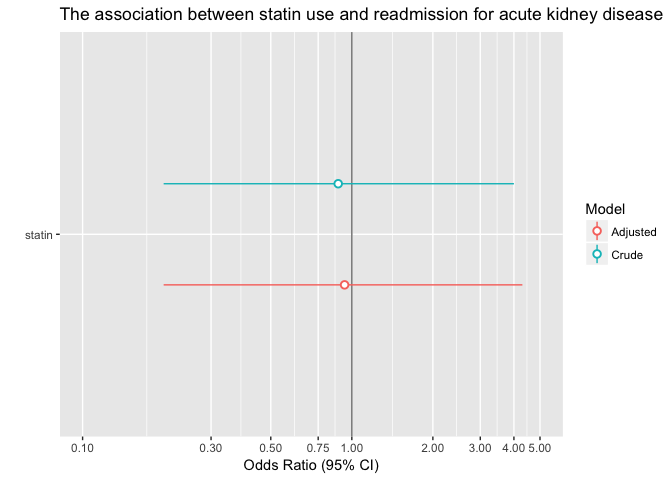
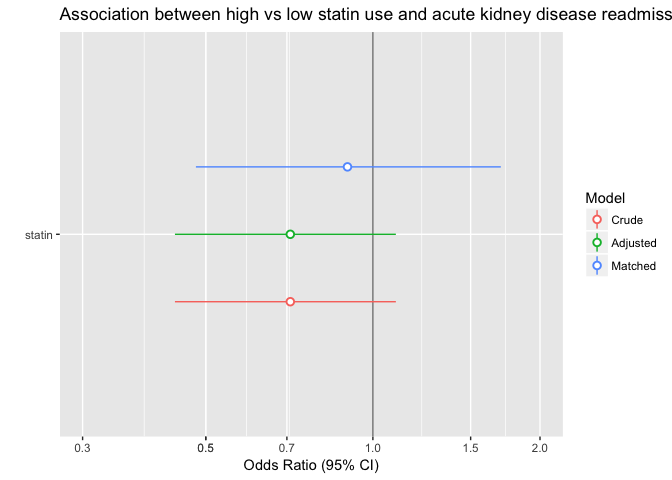
changed inclusion period 6m

diff --git a/SynPUF-propensity-model.md b/SynPUF-propensity-model.md
@@ -3,31 +3,27 @@ SynPUF-propensity-model
 Erika Braithwaite
 2018-05-23
 
-Only 839 met the study's criteria:
+A total of 23
 
 First select individuals above 40 at the time they first showed up in the dataset; then exclude anyone died within one year; then select individuals with statin prescription after 2009-01-01 (set first prescription date as cohort entry date); then exclude anyone who took lipid-lowering drugs before 2009-01-01; also exclude anyone who had dialysis one year before cohort entry
 
 ### Table 1. Covariate balance in total sample N = 839
 
-|                            | low statin | high statin |  SMD  |
-|----------------------------|:----------:|:-----------:|:-----:|
-| n                          |     710    |     133     |       |
-| ckd = Yes (%)              |  66 ( 9.3) |  16 (12.0)  | 0.089 |
-| hypertension = Yes (%)     | 256 (36.1) |  52 (39.1)  | 0.063 |
-| hypercholesterol = Yes (%) | 183 (25.8) |  38 (28.6)  | 0.063 |
-| heart.failure = Yes (%)    |  80 (11.3) |  13 ( 9.8)  | 0.049 |
-| injury.poison = Yes (%)    | 119 (16.8) |  27 (20.3)  | 0.091 |
-| hospital = Yes (%)         | 106 (14.9) |  26 (19.5)  | 0.123 |
-| lab.test = Yes (%)         | 374 (52.7) |  77 (57.9)  | 0.105 |
+|                            |  low statin | high statin |  SMD  |
+|----------------------------|:-----------:|:-----------:|:-----:|
+| n                          |     6425    |     1036    |       |
+| hypertension = Yes (%)     | 2214 (34.5) |  375 (36.2) | 0.036 |
+| hypercholesterol = Yes (%) | 1607 (25.0) |  285 (27.5) | 0.057 |
+| heart.failure = Yes (%)    |  732 (11.4) |  105 (10.1) | 0.041 |
+| PVD = Yes (%)              |  126 ( 2.0) |  22 ( 2.1)  | 0.011 |
+| injury.poison = Yes (%)    |  991 (15.4) |  167 (16.1) | 0.019 |
+| hospital = Yes (%)         |  947 (14.7) |  171 (16.5) | 0.049 |
+| lab.test = Yes (%)         | 3168 (49.3) |  526 (50.8) | 0.029 |
 
 ### Estimate propensity score with nearest neighbor 1:1 matching
 
 ``` r
-#model$call
-```
-
-``` r
-model = matchit(statin ~ ckd + hypertension + hypercholesterol + heart.failure + 
+model = matchit(statin ~ hypertension + hypercholesterol + heart.failure + 
                 injury.poison + hospital + lab.test, method = 'nearest', data = dat)
 
 kable(model$nn)
@@ -35,9 +31,9 @@ kable(model$nn)
 
 |           |  Control|  Treated|
 |-----------|--------:|--------:|
-| All       |      710|      133|
-| Matched   |      133|      133|
-| Unmatched |      577|        0|
+| All       |     6425|     1036|
+| Matched   |     1036|     1036|
+| Unmatched |     5389|        0|
 | Discarded |        0|        0|
 
 10 were successfully matched with controls
@@ -46,26 +42,26 @@ kable(model$nn)
 
 |                            | low statin | high statin |    SMD    |
 |----------------------------|:----------:|:-----------:|:---------:|
-| n                          |     133    |     133     |           |
-| ckd = Yes (%)              |  16 (12.0) |  16 (12.0)  | &lt;0.001 |
-| hypertension = Yes (%)     |  50 (37.6) |  52 (39.1)  |   0.031   |
-| hypercholesterol = Yes (%) |  39 (29.3) |  38 (28.6)  |   0.017   |
-| heart.failure = Yes (%)    |  13 ( 9.8) |  13 ( 9.8)  | &lt;0.001 |
-| injury.poison = Yes (%)    |  25 (18.8) |  27 (20.3)  |   0.038   |
-| hospital = Yes (%)         |  26 (19.5) |  26 (19.5)  | &lt;0.001 |
-| lab.test = Yes (%)         |  77 (57.9) |  77 (57.9)  | &lt;0.001 |
+| n                          |    1036    |     1036    |           |
+| hypertension = Yes (%)     | 375 (36.2) |  375 (36.2) | &lt;0.001 |
+| hypercholesterol = Yes (%) | 285 (27.5) |  285 (27.5) | &lt;0.001 |
+| heart.failure = Yes (%)    | 105 (10.1) |  105 (10.1) | &lt;0.001 |
+| PVD = Yes (%)              |  12 ( 1.2) |  22 ( 2.1)  |   0.076   |
+| injury.poison = Yes (%)    | 167 (16.1) |  167 (16.1) | &lt;0.001 |
+| hospital = Yes (%)         | 171 (16.5) |  171 (16.5) | &lt;0.001 |
+| lab.test = Yes (%)         | 526 (50.8) |  526 (50.8) | &lt;0.001 |
 
 ### Comparing SMD between matched and unmatched sample
 
 |     variable     | unmatched sample | matched sample |
 |:----------------:|:----------------:|:--------------:|
-|        ckd       |       0.09       |      0.00      |
-|   hypertension   |       0.06       |      0.03      |
-| hypercholesterol |       0.06       |      0.02      |
-|   heart.failure  |       0.05       |      0.00      |
-|   injury.poison  |       0.09       |      0.04      |
-|     hospital     |       0.12       |      0.00      |
-|     lab.test     |       0.11       |      0.00      |
+|   hypertension   |       0.04       |      0.00      |
+| hypercholesterol |       0.06       |      0.00      |
+|   heart.failure  |       0.04       |      0.00      |
+|        PVD       |       0.01       |      0.08      |
+|   injury.poison  |       0.02       |      0.00      |
+|     hospital     |       0.05       |      0.00      |
+|     lab.test     |       0.03       |      0.00      |
 
 ### Distribution of standardized mean differences before and after matching
 
